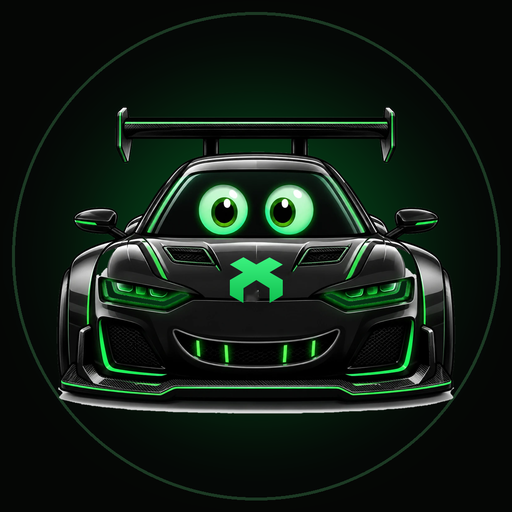
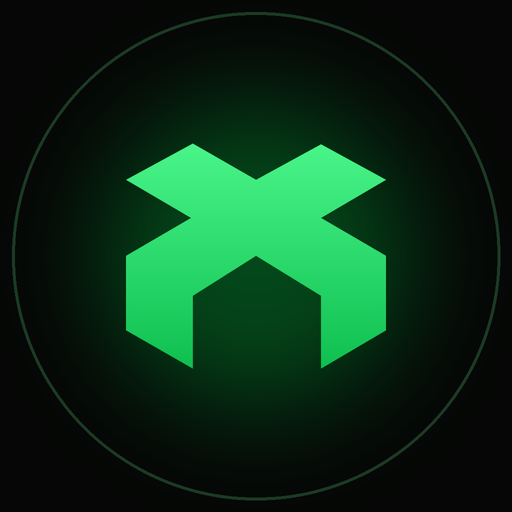
X profile photo in SIGNAL: just the X mark, no car

diff --git a/src/lib/data/signalIdentity.ts b/src/lib/data/signalIdentity.ts
@@ -64,7 +64,7 @@ export function resolveSignalIdentity(
 ): SignalIdentity {
   switch (publisherType) {
     case 'assistant':
-      return { type: 'assistant', name: 'X', subtitle: 'The CX assistant', avatarUrl: '/brand/avatar-x.png?v=3', username: null };
+      return { type: 'assistant', name: 'X', subtitle: 'The CX assistant', avatarUrl: '/brand/avatar-x.png?v=4', username: null };
     case 'cx':
       return { type: 'cx', name: 'CX', subtitle: 'Official CX Rent', avatarUrl: '/brand/avatar-cx-chrome.png', username: null };
     case 'self': {

diff --git a/src/components/signalFeed/SignalProfileDetail.tsx b/src/components/signalFeed/SignalProfileDetail.tsx
@@ -715,7 +715,7 @@ function OfficialVoiceHeader({
   const isCx = type === 'cx';
   const avatar = (
     <Img
-      src={isCx ? '/brand/avatar-cx-chrome.png' : '/brand/avatar-x.png?v=3'}
+      src={isCx ? '/brand/avatar-cx-chrome.png' : '/brand/avatar-x.png?v=4'}
       alt=""
       className="h-24 w-24 rounded-full object-cover shadow-[0_10px_30px_-10px_rgba(0,0,0,0.45)] ring-1 ring-line"
       fallback={
